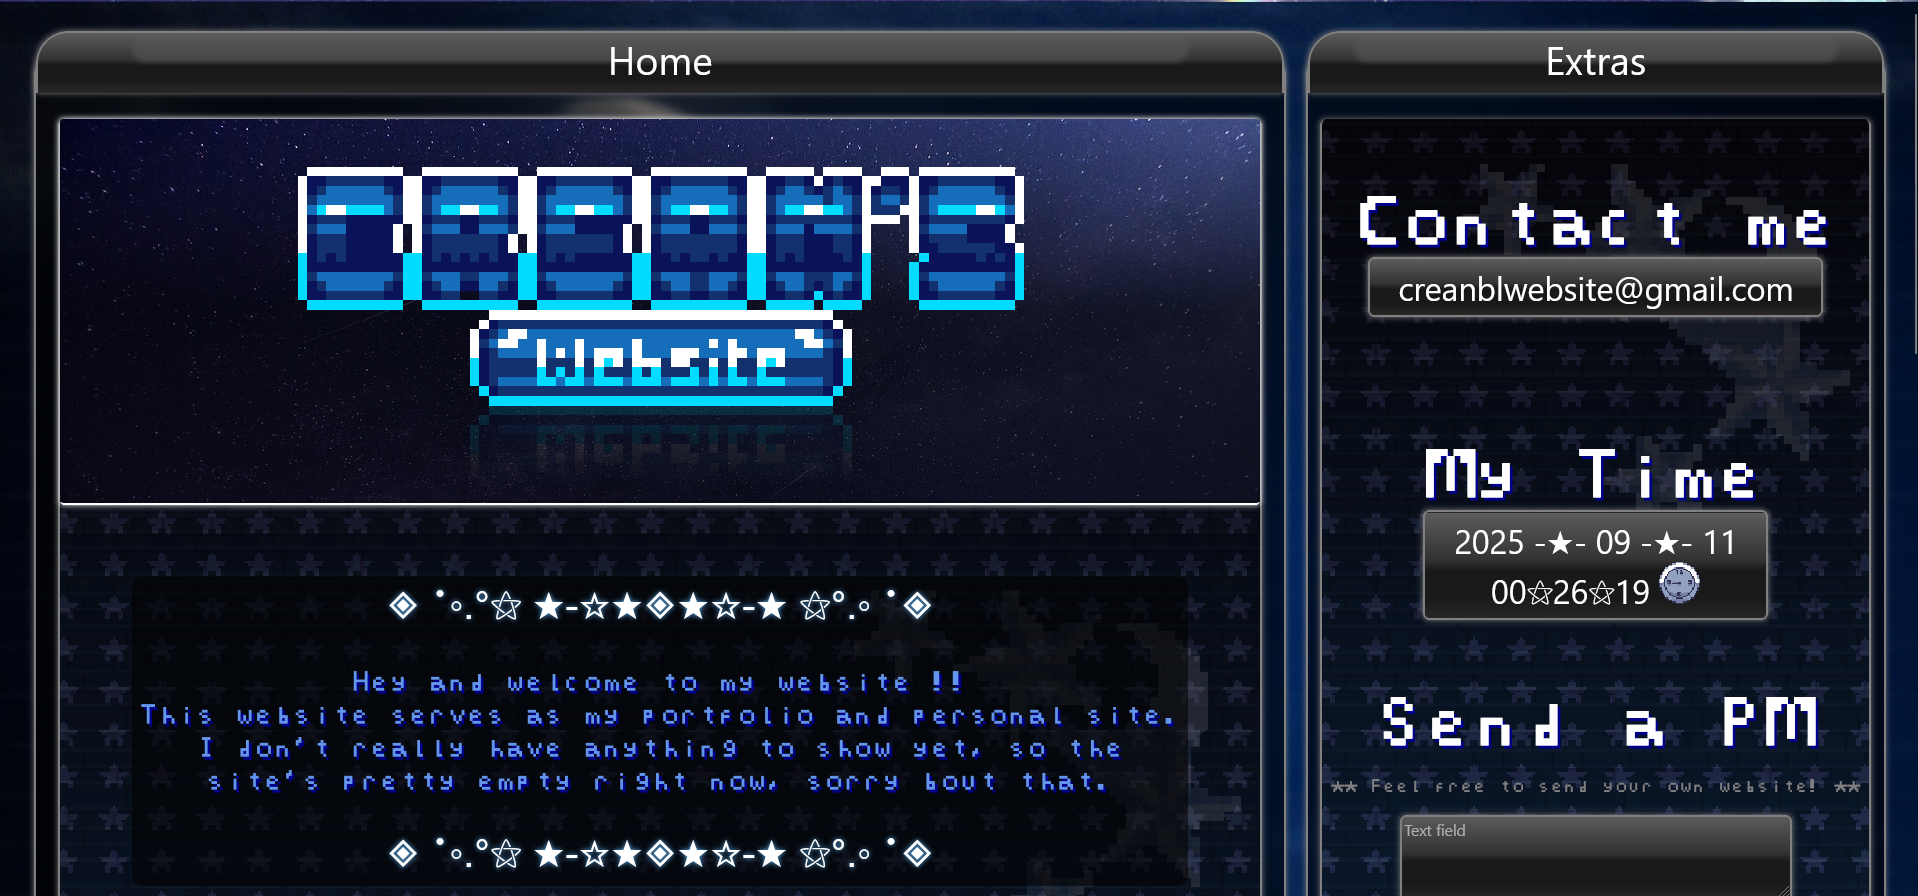
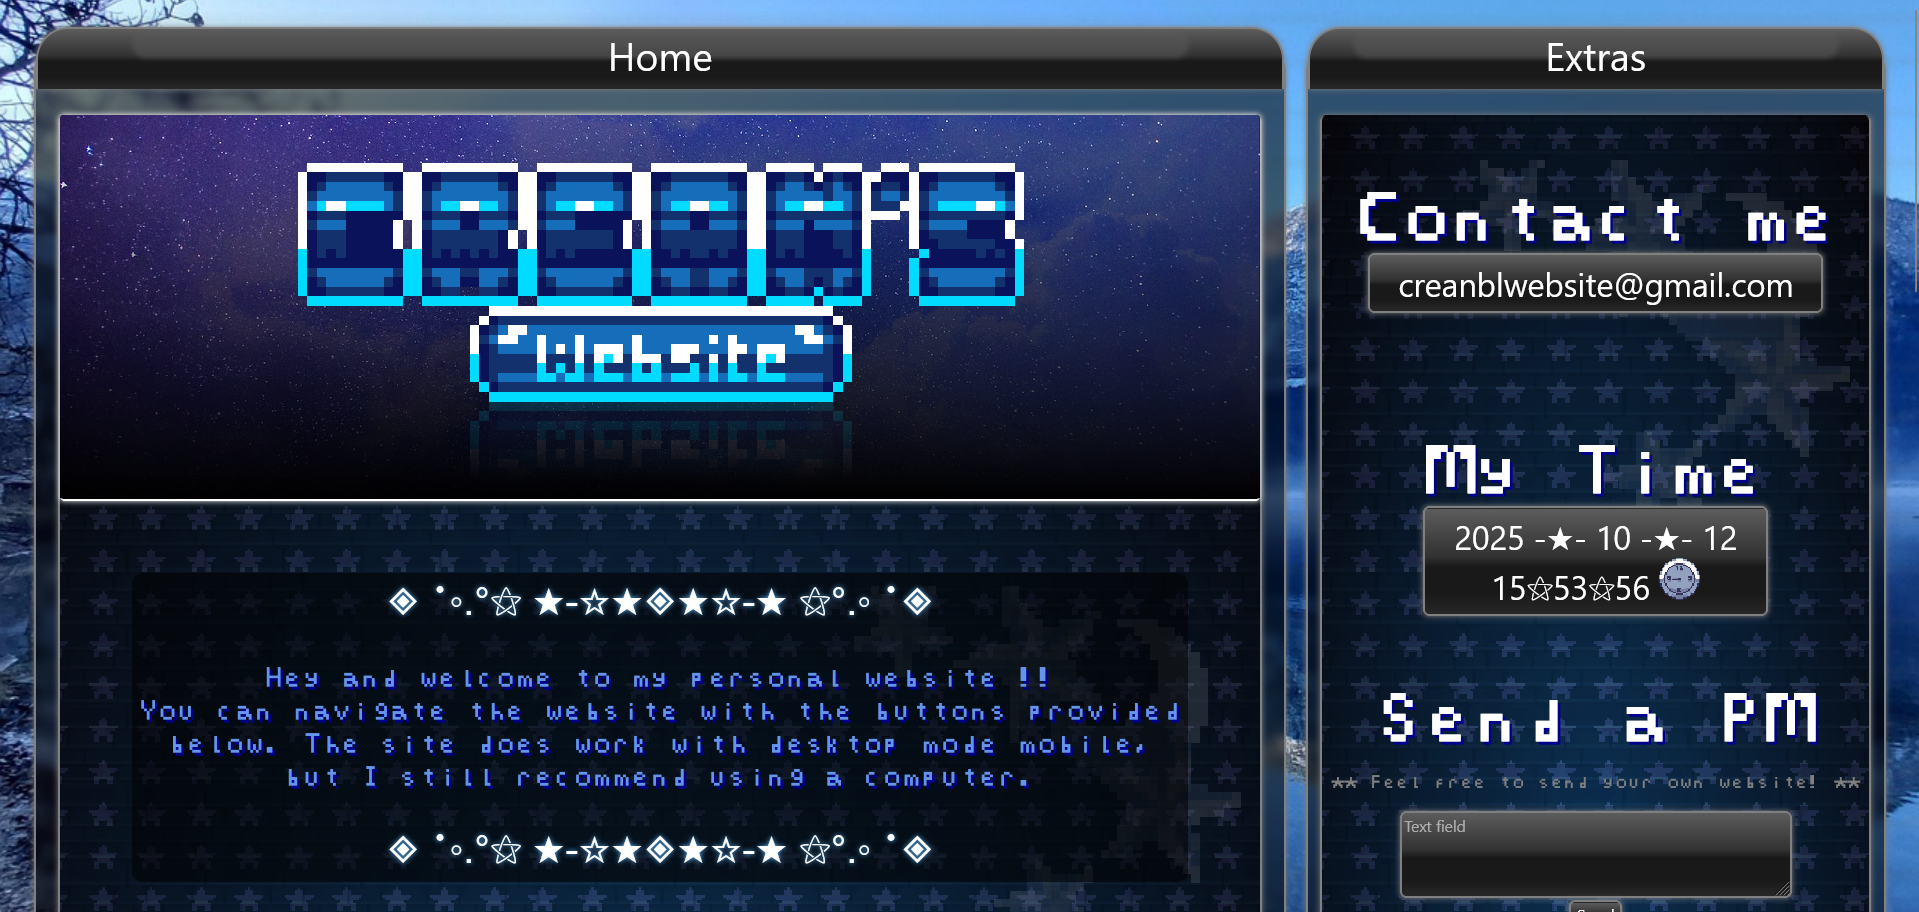
more links + newest article in home page

diff --git a/Code/Info.html b/Code/Info.html
@@ -67,7 +67,7 @@
 
             <div class="StarBlanket" style="margin: 0px 10px 20px; padding: 0px 5px 10px; width: 77.5vw; background-position: left bottom, right 5px, 0px 0px, 0px 0px, 0px 0px;">
                 <div style="display: flex; height: 100%;">
-                    <div style="width: 40vw; margin: 10px; background-image: url(../Assets/Creanbll.png); background-repeat: no-repeat; background-position: top left; background-size: 100%;">
+                    <div style="width: 40vw; margin: 10px; background-image: url(../Assets/Creanbl.gif); background-repeat: no-repeat; background-position: top left; background-size: 100%;">
                 <font style="opacity: 0%;">---<br>
                 ---<br>
                 ---<br>
@@ -113,17 +113,15 @@
                     -༄❀-:> Games I've Played:
                 </font><br>
                 <thought>(Current interests marked with White Star)</thought><br>
-                -⚝ ★ Undertale/DELTARUNE ★<br>
-                -❀ ★ Terraria ★<br>
-                -⚝ ★ Hollow Knight ★<br>
-                -❀ ★ Touhou Project ★<br>
-                <font style="color: gray;">
-                    -⚝ ULTRAKILL<br>
-                    -❀ Celeste<br>
-                    -⚝ Minecraft<br>
-                    -❀ Geometry Dash<br>
-                    -⚝ Stardew Valley<br>
-                </font>
+                -⚝ ★ <img src="../Assets/TennaText/UndertaleLogo.png" width="100px">/<img src="../Assets/TennaText/DeltaruneLogo.png" width="100px"> ★<br>
+                -❀ ★ <img src="../Assets/TennaText/TerrariaLogo.png" width="100px"> ★<br>
+                -⚝ ★ <img src="../Assets/TennaText/HollowKnightLogo.png" width="100px"> ★<br>
+                -❀ ★ <img src="../Assets/TennaText/TouhouLogo.png" width="75px"> ★ <br>
+                -⚝ <img src="../Assets/TennaText/UltrakillLogo.png" width="100px"><br>
+                -❀ <img src="../Assets/TennaText/CelesteLogo.png" width="100px"><br>
+                -⚝ <img src="../Assets/TennaText/MinecraftLogo.png" width="100px"><br>
+                -❀ <img src="../Assets/TennaText/GeometryDashLogo.png" width="150px"><br>
+                -⚝ <img src="../Assets/TennaText/SDVLogo.png" width="100px"><br>
                 
                 <br><br>
 

diff --git a/Code/Main.html b/Code/Main.html
@@ -146,6 +146,19 @@
                             <img src="../Assets/SteamLogo.png" class="LinkButton">
                         </a>
                     </div>
+
+                    <h2>Newest Article</h2>
+
+                    <div class="WindowContainer" style="height: 270px; display: flexbox; vertical-align: middle;">
+                        Written: 2025★06★02<br>
+                        <a href="Articles/TranscendentModReport3.html" class="Links" style="margin: auto;">
+                            <div class="BlogCard" style="background-image: url('../Assets/Blog/TranscendentModThumbnail3.png');">
+                                <blogtitlefont>Transcendence Mod Prog. Report #3</blogtitlefont><br>
+                                <blogcardp>My third progress report for my Terraria content mod.</p>
+                            </div>
+                        </a>
+                    </div><br>
+
                 </div>
             </div>
 
@@ -197,7 +210,7 @@
                         <area href="https://baccyflap.com/noai/?nxt&s=cbl" target="_top" shape="rect" coords="102,116,199,141" alt="next" title="next">
                     </map>
                     <img usemap="#win7widget-compact" src="https://baccyflap.com/noai/win7widget-compact.gif" alt="a Windows 7 style dialog box titled 'The No AI Webring' with a little icon showing a computer chip in a rubbish bin. beside it are three clickable buttons, labeled Previous, Random and Next"><br>
-                    <a href="Links.html" style="padding: 5px; border-radius: 8px; background-color: #0000008e; font-size: 18px;">★ More Links ★</a><br><br>
+                    <a href="Links.html" style="padding: 5px; border-radius: 8px; background-image: url('../Assets/LinkButtons/button.png'); background-size: cover; font-size: 18px;">★ More Links ★</a><br><br>
                 </div>
             </div>
         </div><br>

diff --git a/Code/Links.html b/Code/Links.html
@@ -75,7 +75,7 @@
                     (Can be done by sending a private message through the Home Page!<br> Make sure to include a link button anywhere in your website!)
                 </p>
 
-                <div style="margin: auto; width: 60%; display: flex; flex-wrap: wrap; padding: 5px; justify-content: center;">
+                <div style="margin: auto; width: 40%; display: flex; flex-wrap: wrap; padding: 5px; justify-content: center;">
 
                     <a href="https://frutigeraeroarchive.org/">
                         <img src="https://frutigeraeroarchive.org/images/buttons/frutigeraeroarchive_button.png" alt="Frutiger Aero Archive">
@@ -115,6 +115,30 @@
 
                     <a href="https://alphacentauri.neocities.org/">
                         <img src="https://alphacentauri.neocities.org/_img/alphacentauri.gif" alt="alphacentauri">
+                    </a>
+
+                    <a href="https://nomnomnami.com/">
+                        <img src="../Assets/LinkButtons/NomNomNami.gif">
+                    </a>
+
+                    <a href="https://lazer-bunny.neocities.org/">
+                        <img src="../Assets/LinkButtons/LazerBunny.gif">
+                    </a>
+
+                    <a href="https://rayncoat.nekoweb.org/">
+                        <img src="../Assets/LinkButtons/RaynCoat.gif">
+                    </a>
+
+                    <a href="https://shishka.neocities.org/">
+                        <img src="../Assets/LinkButtons/Shishka.gif">
+                    </a>
+
+                    <a href="https://lilithdev.neocities.org/">
+                        <img src="https://lilithdev.neocities.org/buttons/lilithdevbtn.gif">
+                    </a>
+
+                    <a href="https://plasticdino.net/">
+                        <img src="../Assets/LinkButtons/plasticdino.gif">
                     </a>
 
                 </div>

diff --git a/Code/style.css b/Code/style.css
@@ -209,7 +209,7 @@ img {
 
     width: 62.5vw;
     background-blend-mode: normal, normal, normal, soft-light, normal;
-    background-image: url('../Assets/Rose.png'), url('../Assets/Stars.png'), linear-gradient(#000000a8, #009dff3d), url('../Assets/BG07.gif'), url('../Assets/BG02.png');
+    background-image: url('../Assets/Rose.png'), url('../Assets/Stars.png'), radial-gradient(#009dff3d, #000000a8), url('../Assets/BG07.gif'), url('../Assets/BG02.png');
     background-repeat: no-repeat, no-repeat, no-repeat, repeat, repeat;
     background-size: 240px, 320px, 100%, 75px, 60px;
     background-position: left bottom, right 22.5vw, 0px 0px, 0px 0px, 0px 0px;
@@ -260,7 +260,7 @@ img {
     justify-content: center;
     z-index: 1;
 
-    background-color: #0000009d;
+    background-image: linear-gradient(#0000009d, black);
     vertical-align: middle;
     display: flex;
     border-radius: 0px 0px 12.5px 12.5px;
@@ -289,6 +289,21 @@ img {
     top: 0px;
     background-image: linear-gradient(rgba(0, 0, 0, 0), rgba(255, 255, 255, 0.125));
     content: "";
+}
+blogtitlefont {
+    text-align: left;
+    font-size: 20px;
+    float: left;
+    background-color: rgba(0, 0, 0, 0.5);
+    font-family: 'Segoe UI', Tahoma, Geneva, Verdana, sans-serif;
+}
+blogcardp {
+    font-size: 10px;
+    background-color: rgba(0, 0, 0, 0.875);
+    display: block;
+    text-align: left;
+    padding-left: 20px;
+    font-family: 'Segoe UI', Tahoma, Geneva, Verdana, sans-serif;
 }
 .TextBox {
     background-color: #000000;

diff --git a/Code/ArticlesBoxList.html b/Code/ArticlesBoxList.html
@@ -8,31 +8,12 @@
     </head><img src="../Assets/CRT.gif" class="CRT">
 
     <style>
-        @font-face { font-family: WanderersLost; src: url('../Assets/WandererLost\ Font.ttf'); }
-        p {
-            font-family: WanderersLost;
-            font-size: 17px;
-            background-color: rgba(158, 103, 1, 0.204);
-        }
         .Page {
             margin-top: 25px;
         }
         .ButtonTab {
             width: 100%;
             height: 80px;
-        }
-        blogtitlefont {
-            text-align: left;
-            font-size: 20px;
-            float: left;
-            background-color: rgba(0, 0, 0, 0.5);
-        }
-        blogcardp {
-            font-size: 10px;
-            background-color: rgba(0, 0, 0, 0.875);
-            display: block;
-            text-align: left;
-            padding-left: 20px;
         }
     </style>
 

diff --git a/Code/CreationsFolder/TranscendentMod.html b/Code/CreationsFolder/TranscendentMod.html
@@ -59,10 +59,10 @@
                 Transcendence Mod
             </div>
     
-            <div class="WindowContainer">
-                <p style="font-size: 35px;">A Terraria 1.4.4 content mod for tModloader</p>
+            <div class="StarBlanket" style="width: 77.5vw; font-family: 'Segoe UI', Tahoma, Geneva, Verdana, sans-serif; background-position: left bottom, right 5px, 0px 0px, 0px 0px, 0px 0px;">
+                <p style="font-size: 45px;">A Terraria 1.4.4 content mod for tModloader</p>
                 
-                <p>
+                <p class="CoolParagraph">
                     <a href="https://github.com/creaamblob/TranscendenceMod">GITHUB LINK</a><br><br>
                     A mod that I started developing in 2022.<br>
                     Estimated release: Late 2026<br><br>

diff --git a/Code/Resources.html b/Code/Resources.html
@@ -49,7 +49,7 @@
             <div class="Top">
                 Resources
             </div>
-            <div class="StarBlanket" style="width: 72.5vw;">
+            <div class="StarBlanket" style="width: 72.5vw; background-position: left bottom, right 5px, 0px 0px, 0px 0px, 0px 0px;">
                 <div style="display: flex; flex-wrap: wrap; padding: 5px; justify-content: center;">
                     <div class="FancyBox">
                         <font style="color: rgb(255, 0, 0);">Glass Panel:</font><br><br>

diff --git a/README.md b/README.md
@@ -1,6 +1,6 @@
 My personal website, has a few things at the moment ★
-<img width="1919" height="881" alt="Preview" src="https://github.com/user-attachments/assets/c74fba30-e1f8-4b49-a7fc-e93a9ce4f713" />
+<img width="1919" height="912" alt="Preview" src="https://github.com/user-attachments/assets/94cc896a-e755-4924-b15d-ac1c4d118a01" />
 
 URL:
-https://creaamblob.github.io/Creanbl.github.io
- ![Creations](https://github.com/user-attachments/assets/67105d31-beee-4b72-af66-43ba2699bac1)
+https://creaamblob.github.io/Creanbl.github.io 
+ <img width="88" height="31" alt="LinkButton" src="https://github.com/user-attachments/assets/d6b3cacd-d08d-4f2b-8a21-69f15d7abe28" />
